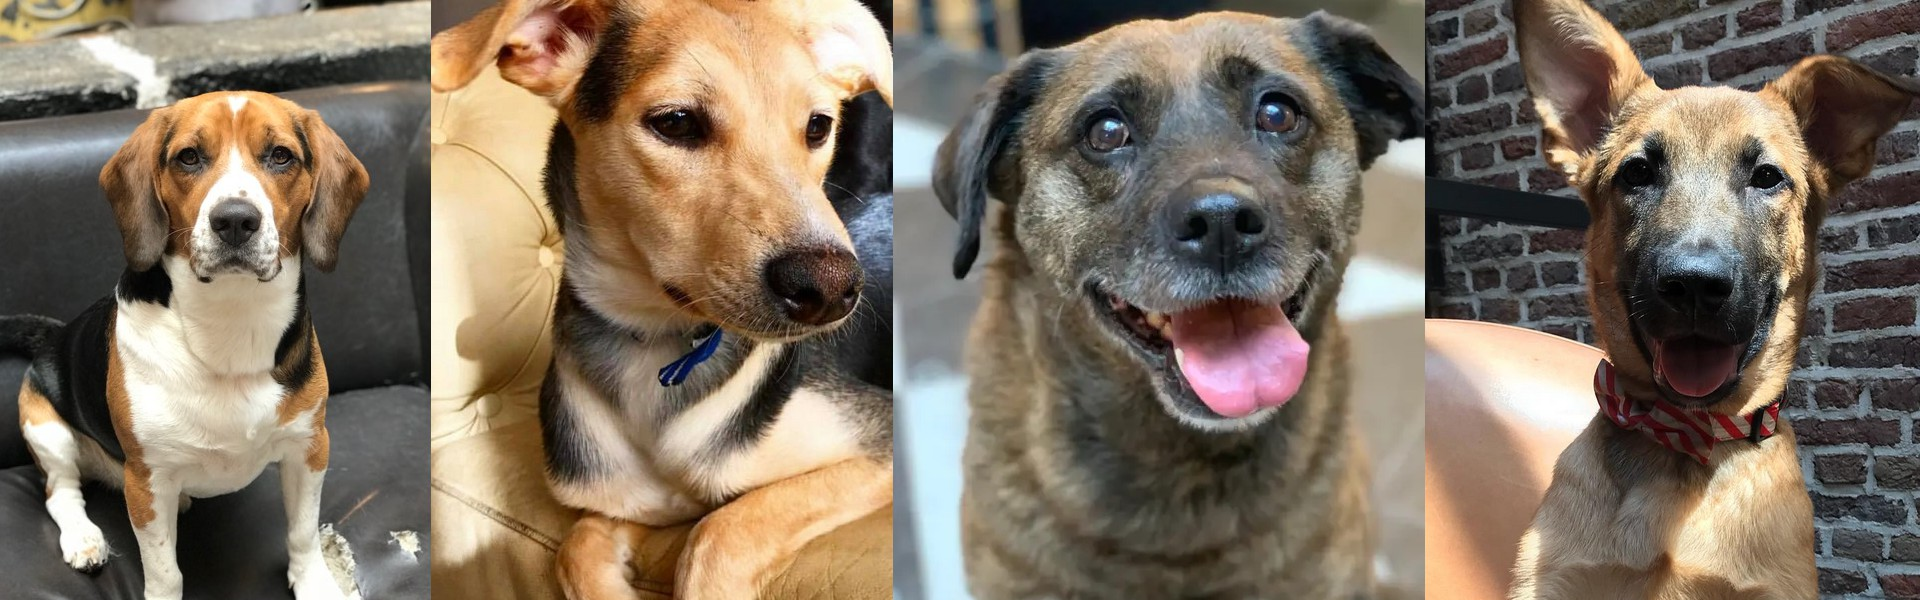
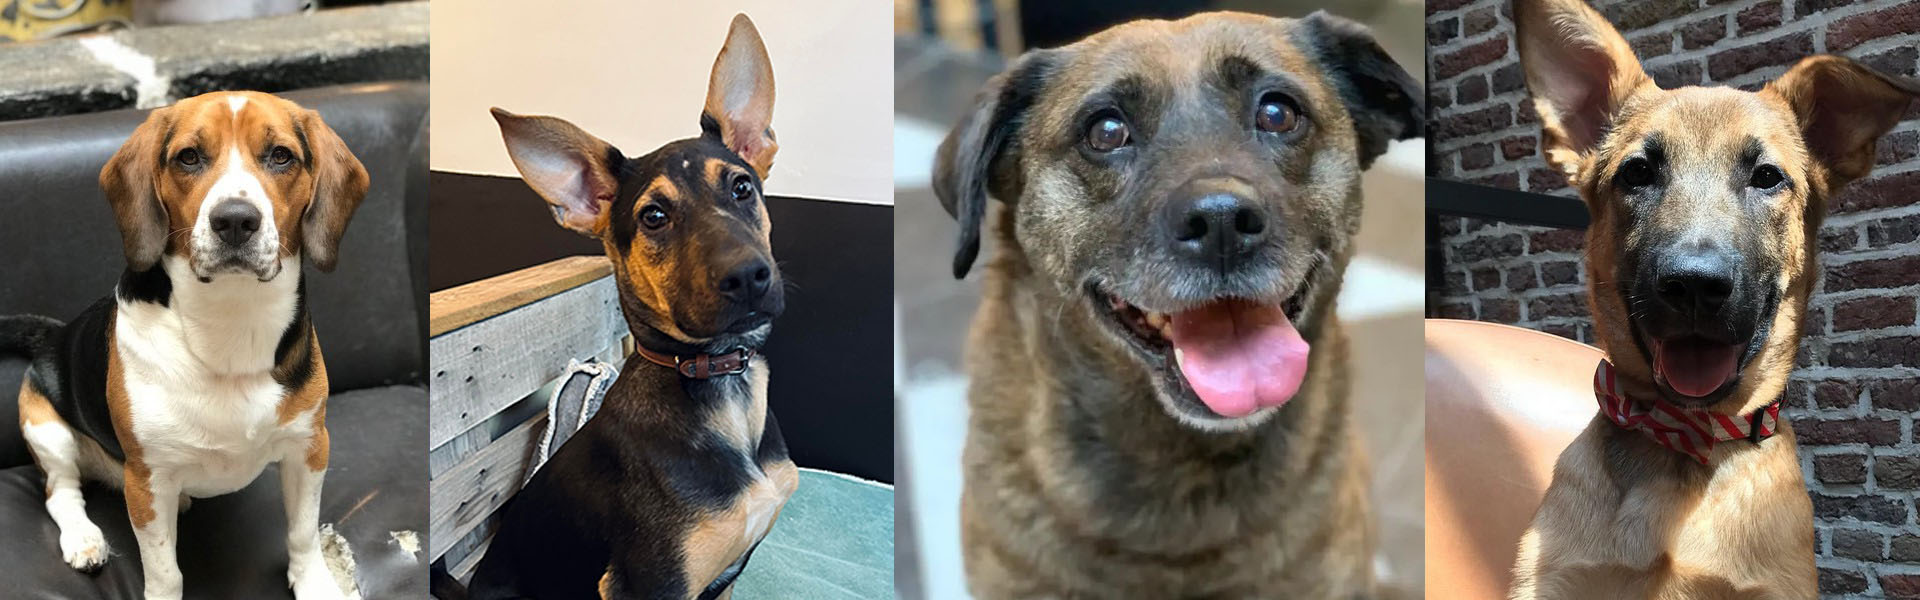
FEATURE : plus de resa + loki

Changed region(s): [[0.2188, 0.0, 0.4688, 1.0]]

diff --git a/src/components/FichePreReservation.vue b/src/components/FichePreReservation.vue
@@ -366,7 +366,7 @@ export default {
 
     async checkComplet() {
       let response = await ReservationsRepository.isComplet({
-        //date: this.dateSelectionne + " 01:00:00.000",
+        //date: this.dateSelectionne + " 02:00:00.000",
         date: this.dateSelectionne + " 00:00:00.000",
       });
       if (response["code"] == 1000) {
@@ -505,7 +505,7 @@ export default {
       if (this.disponibilite) {
         this.loading = true;
         let result = await ReservationsRepository.verificationMail({
-          //date: this.dateSelectionne + " 01:00:00.000",
+          // date: this.dateSelectionne + " 02:00:00.000",
           date: this.dateSelectionne + " 00:00:00.000",
           email: this.email,
         });
@@ -518,7 +518,7 @@ export default {
             );
           } else {
             this.$confirm(
-              `Vous avez deja un reservation ce jour à ${result[0].heureReservation.substring(
+              `Vous avez deja une reservation ce jour à ${result[0].heureReservation.substring(
                 0,
                 5
               )} avec ${
@@ -592,11 +592,12 @@ export default {
           this.loading = false;
           this.closeModal();
         }
+
       } else {
         this.loading = true;
         let reservationsDTO = await ReservationsRepository.getReservations({
           heureReservation: this.heureSelectionne,
-          //dateReservation: this.dateSelectionne + " 01:00:00.000",
+          // dateReservation: this.dateSelectionne + " 02:00:00.000",
           dateReservation: this.dateSelectionne + " 00:00:00.000",
         });
         for (let i = 0; i < reservationsDTO.length; i++) {
@@ -633,7 +634,20 @@ export default {
             nbReservationCanape++;
           }
         }
+
+
+        /*
+        3 groupes de 2
+        1 groupe de 2 et un groupe de 3
+        2 groupes de 3
+       */
         if (nbReservationCanape == 1 && !isResa && this.nbPersonne <= 3) {
+          this.preReservation = false;
+          this.disponibilite = true;
+          this.idTableSelected = 6;
+          isResa = true;
+        }
+        if (nbReservationCanape == 2 && !isResa && this.nbPersonne <= 2) {
           this.preReservation = false;
           this.disponibilite = true;
           this.idTableSelected = 6;

diff --git a/public/index.html b/public/index.html
@@ -1,19 +1,25 @@
 <!DOCTYPE html>
 <html lang="en">
-  <head>
-    <meta charset="utf-8">
-    <meta http-equiv="X-UA-Compatible" content="IE=edge">
-    <meta name="viewport" content="width=device-width,initial-scale=1.0">
-    <link rel="icon" href="<%= BASE_URL %>favicon.ico">
-    <title>Le WAF</title>
-    <link rel="stylesheet" href="https://fonts.googleapis.com/css?family=Roboto:100,300,400,500,700,900">
-    <link rel="stylesheet" href="https://cdn.jsdelivr.net/npm/@mdi/font@latest/css/materialdesignicons.min.css">
-  </head>
-  <body>
-    <noscript>
-      <strong>We're sorry but <%= htmlWebpackPlugin.options.title %> doesn't work properly without JavaScript enabled. Please enable it to continue.</strong>
-    </noscript>
-    <div id="app"></div>
-    <!-- built files will be auto injected -->
-  </body>
+
+<head>
+  <meta charset="utf-8">
+  <meta http-equiv="X-UA-Compatible" content="IE=edge">
+  <meta name="viewport" content="width=device-width,initial-scale=1.0">
+  <meta http-equiv="Cache-control" content="no-cache, no-store, must-revalidate">
+  <meta http-equiv="Pragma" content="no-cache">
+  <link rel="icon" href="<%= BASE_URL %>favicon.ico">
+  <title>Le WAF</title>
+  <link rel="stylesheet" href="https://fonts.googleapis.com/css?family=Roboto:100,300,400,500,700,900">
+  <link rel="stylesheet" href="https://cdn.jsdelivr.net/npm/@mdi/font@latest/css/materialdesignicons.min.css">
+</head>
+
+<body>
+  <noscript>
+    <strong>We're sorry but <%= htmlWebpackPlugin.options.title %> doesn't work properly without JavaScript enabled.
+        Please enable it to continue.</strong>
+  </noscript>
+  <div id="app"></div>
+  <!-- built files will be auto injected -->
+</body>
+
 </html>

diff --git a/src/components/ReservationOfTheDay.vue b/src/components/ReservationOfTheDay.vue
@@ -454,6 +454,9 @@
         <v-btn color="blue-grey" @click="bloque('17:15')" class="white--text">
           17:15
         </v-btn>
+        <!-- <v-btn color="blue-grey" @click="OrganiserReservation()" class="white--text">
+          PrintResa
+        </v-btn> -->
       </v-row>
     </div>
   </v-container>
@@ -798,6 +801,14 @@ export default {
       });
     },
 
+    async OrganiserReservation(){
+       let reservationsDTO = await ReservationsRepository.getReservationsDuJour({
+        //date: this.dateSelectionne + " 02:00:00.000",
+        date: this.dateSelectionne + " 00:00:00.000",
+      });
+        console.log(reservationsDTO)
+    },
+
     async newAutoReservation(idtable, heure) {
       await ReservationsRepository.addReservation({
         nom: "",
@@ -814,7 +825,7 @@ export default {
 
     async loadReservations() {
       let reservationsDTO = await ReservationsRepository.getReservationsDuJour({
-        //date: this.dateSelectionne + " 01:00:00.000",
+        //date: this.dateSelectionne + " 02:00:00.000",
         date: this.dateSelectionne + " 00:00:00.000",
       });
       for (let j = 0; j < this.reservations.length; j++) {

diff --git a/src/vues/Accueil.vue b/src/vues/Accueil.vue
@@ -238,21 +238,18 @@
         <br />
 
         <v-divider width="50%"></v-divider>
-        <p><strong>Jo</strong>&lsquo;</p>
+        <p><strong>Loki</strong></p>
         <p>
-          Jo est un survivant, accompagné de son copain Engie, ils ont été
-          retrouvés accroché dans une forêt avec ses confrères. Son histoire se
-          poursuit avec la fourrière et la LPA, touché par leur histoire, nous
-          avons pris Engie et Jo&rsquo; en famille d&rsquo;accueil. Engie a
-          trouvé sa famille et revient en Garderie, quant à Jo&rsquo; il
-          séjourne au sein du Waf .. 🙂
+          Loki est un croisé Doberman que nous avons recueilli en Décembre 2021.
+          <br />Ce jeune petit père est un rescapé de la rue. <br />Au Waf vous
+          aurez surement le droit à une sieste et une lechouille de sa part ! 🙂
         </p>
         <v-img
           alt="Jo"
           contain
           max-height="470"
           max-width="350"
-          :src="require(`@/assets/Djo.jpg`)"
+          :src="require(`@/assets/Loki.jpg`)"
         ></v-img>
       </v-col>
     </v-row>
